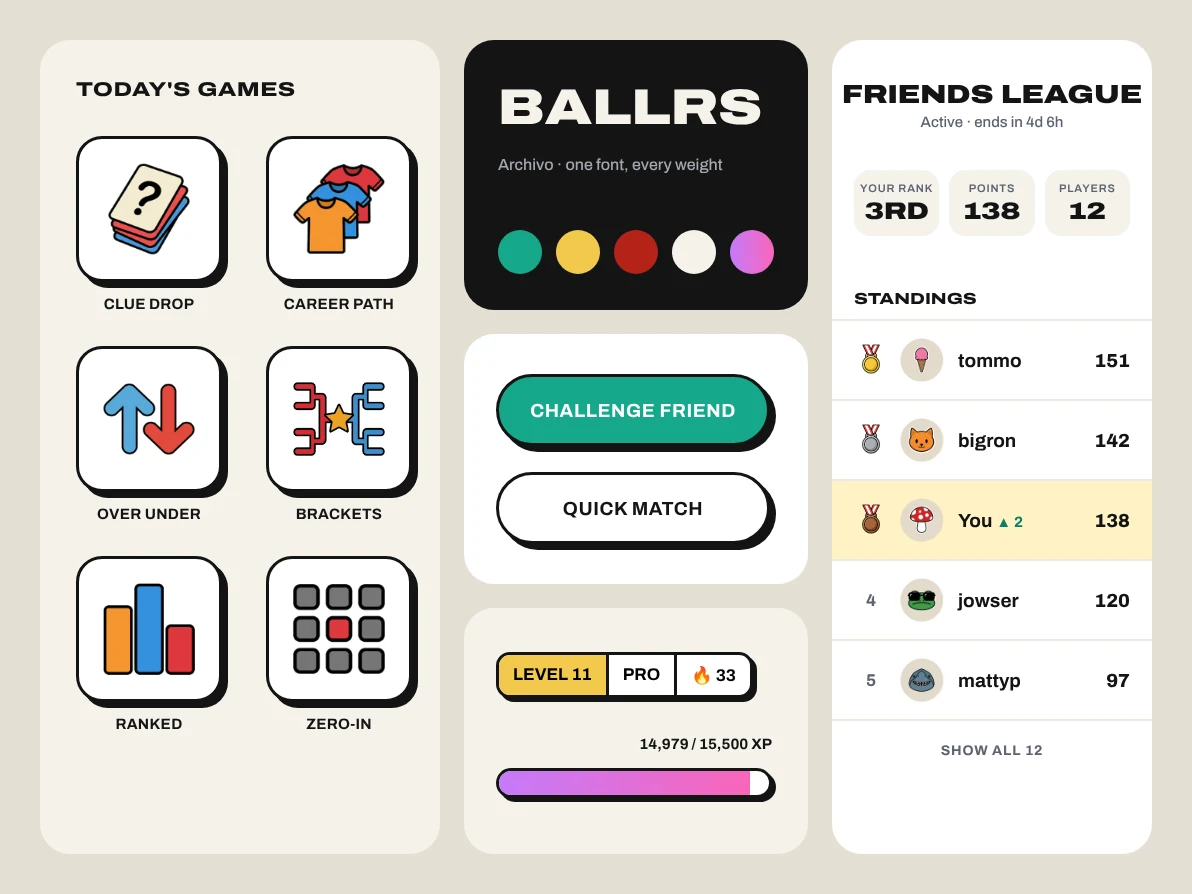
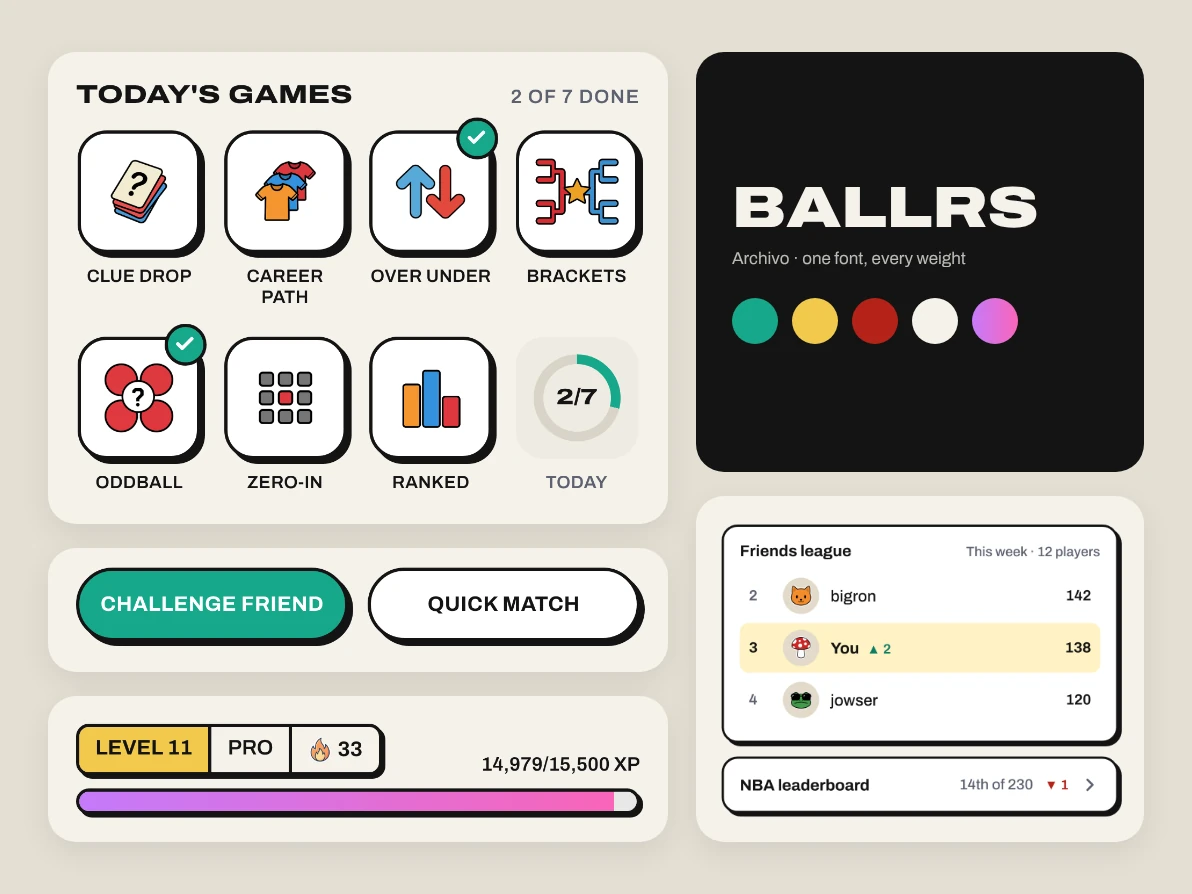
Homepage: new JetSweat, 5ives and Ballrs tiles, Ballrs tags, showreel fits the window

diff --git a/index.html b/index.html
@@ -265,9 +265,12 @@ a,.nav-pill,.bento-tile{cursor:pointer}
 /* 160px above it (the section's 88px top padding plus 72px) and 160px under it, so it reads as its own section */
 .reel{margin-top:72px;margin-bottom:160px}
 .reel-label{font:700 13px/1 var(--mono);letter-spacing:.06em;text-transform:uppercase;color:#6B6B6B;margin-bottom:16px}
-/* The full width of the grid, 16:9. Where that would be taller than 85% of the screen it stops there and is centred.
+/* The full width of the grid, 16:9, unless the whole block (heading, video, caption row and button) would not fit
+   in the window. Then the box gets narrower and is centred. 176px is everything that is not video, measured in the
+   browser: 81px for the heading, caption row and their gaps, 12px of page frame top and bottom, 32px of space above
+   and below, and 7px spare. This page has no sticky header.
    The label, video and caption row share one box, so they always have the same left and right edges. */
-.reel-box{margin:0 auto;max-width:min(100%,calc(85vh * 16 / 9))}
+.reel-box{margin:0 auto;max-width:min(100%,calc((100vh - 176px) * 16 / 9));max-width:min(100%,calc((100svh - 176px) * 16 / 9))}
 .cs-video{position:relative}
 .cs-video video{display:block;width:100%;height:auto;aspect-ratio:16/9;border-radius:8px;border:1px solid rgba(0,0,0,.12);background:#F6F5F0}
 .reel-foot{display:flex;justify-content:space-between;align-items:flex-start;gap:12px 32px;margin-top:12px}
@@ -534,7 +537,7 @@ a,.nav-pill,.bento-tile{cursor:pointer}
 
   <!-- 01 JetSweat — Orange -->
   <a class="bento-tile" href="jetsweat.html">
-    <div class="bt-media bt-burnt"><img class="bt-img bt-img--fill" src="public/images/tiles/tile-jetsweat.webp" width="1192" height="894" alt="JetSweat dashboard with cards for users, subscribers and cancellations, a revenue chart and upcoming livestreams"></div>
+    <div class="bt-media bt-burnt"><img class="bt-img bt-img--fill" src="public/images/tiles/tile-jetsweat.webp" width="1192" height="894" alt="JetSweat dashboard with cards for users, subscribers and cancellations, a revenue chart, upcoming livestreams and engagement metrics"></div>
     <div class="bt-content">
       <h3 class="bt-title">JetSweat</h3>
       <p class="bt-facts">Freelance Product Designer · 3 months · B2B dashboard</p>
@@ -586,7 +589,7 @@ a,.nav-pill,.bento-tile{cursor:pointer}
 
   <!-- 04 5ives — Album navy -->
   <a class="bento-tile" href="5ives.html">
-    <div class="bt-media bt-album"><img class="bt-img bt-img--fill" src="public/images/tiles/tile-5ives.webp" width="1192" height="894" alt="Three 5ives screens: the matchweek home screen with live points, the Pick your five squad on a pitch, and a league table"></div>
+    <div class="bt-media bt-album"><img class="bt-img bt-img--fill" src="public/images/tiles/tile-5ives.webp" width="1192" height="894" alt="Two 5ives screens: the matchweek home screen with live points, and Pick your five with the squad on a pitch"></div>
     <div class="bt-content">
       <h3 class="bt-title">5ives</h3>
       <p class="bt-facts">Designer and developer · Live web app · Fantasy football</p>
@@ -617,13 +620,13 @@ a,.nav-pill,.bento-tile{cursor:pointer}
 
   <!-- 06 Ballrs — Navy -->
   <a class="bento-tile" href="ballrs.html">
-    <div class="bt-media bt-sand"><img class="bt-img bt-img--fill" src="public/images/tiles/tile-ballrs-sheet.webp" width="1192" height="894" alt="Ballrs design system sheet: game mode icons, the colour palette, buttons, a level and XP bar, and a friends league table"></div>
+    <div class="bt-media bt-sand"><img class="bt-img bt-img--fill" src="public/images/tiles/tile-ballrs-sheet.webp" width="1192" height="894" alt="Pieces of the redesigned Ballrs app: today&rsquo;s games grid, Challenge friend and Quick match buttons, the level and XP bar, a friends league table, and the Archivo font with the colour palette"></div>
     <div class="bt-content">
       <h3 class="bt-title">Ballrs</h3>
       <p class="bt-facts">Designer and developer · 2025–now · Daily sports trivia app</p>
-      <p class="bt-desc">Designed, built, and shipped a multi-sport trivia app solo.</p>
+      <p class="bt-desc">Designed, built and shipped a daily sports trivia app with a co-founder, then redesigned it around one design system.</p>
       <div class="bt-tags">
-        <span>UX Research</span>
+        <span>Design System</span>
         <span>Onboarding &amp; flows</span>
         <span>Built in code</span>
       </div>
